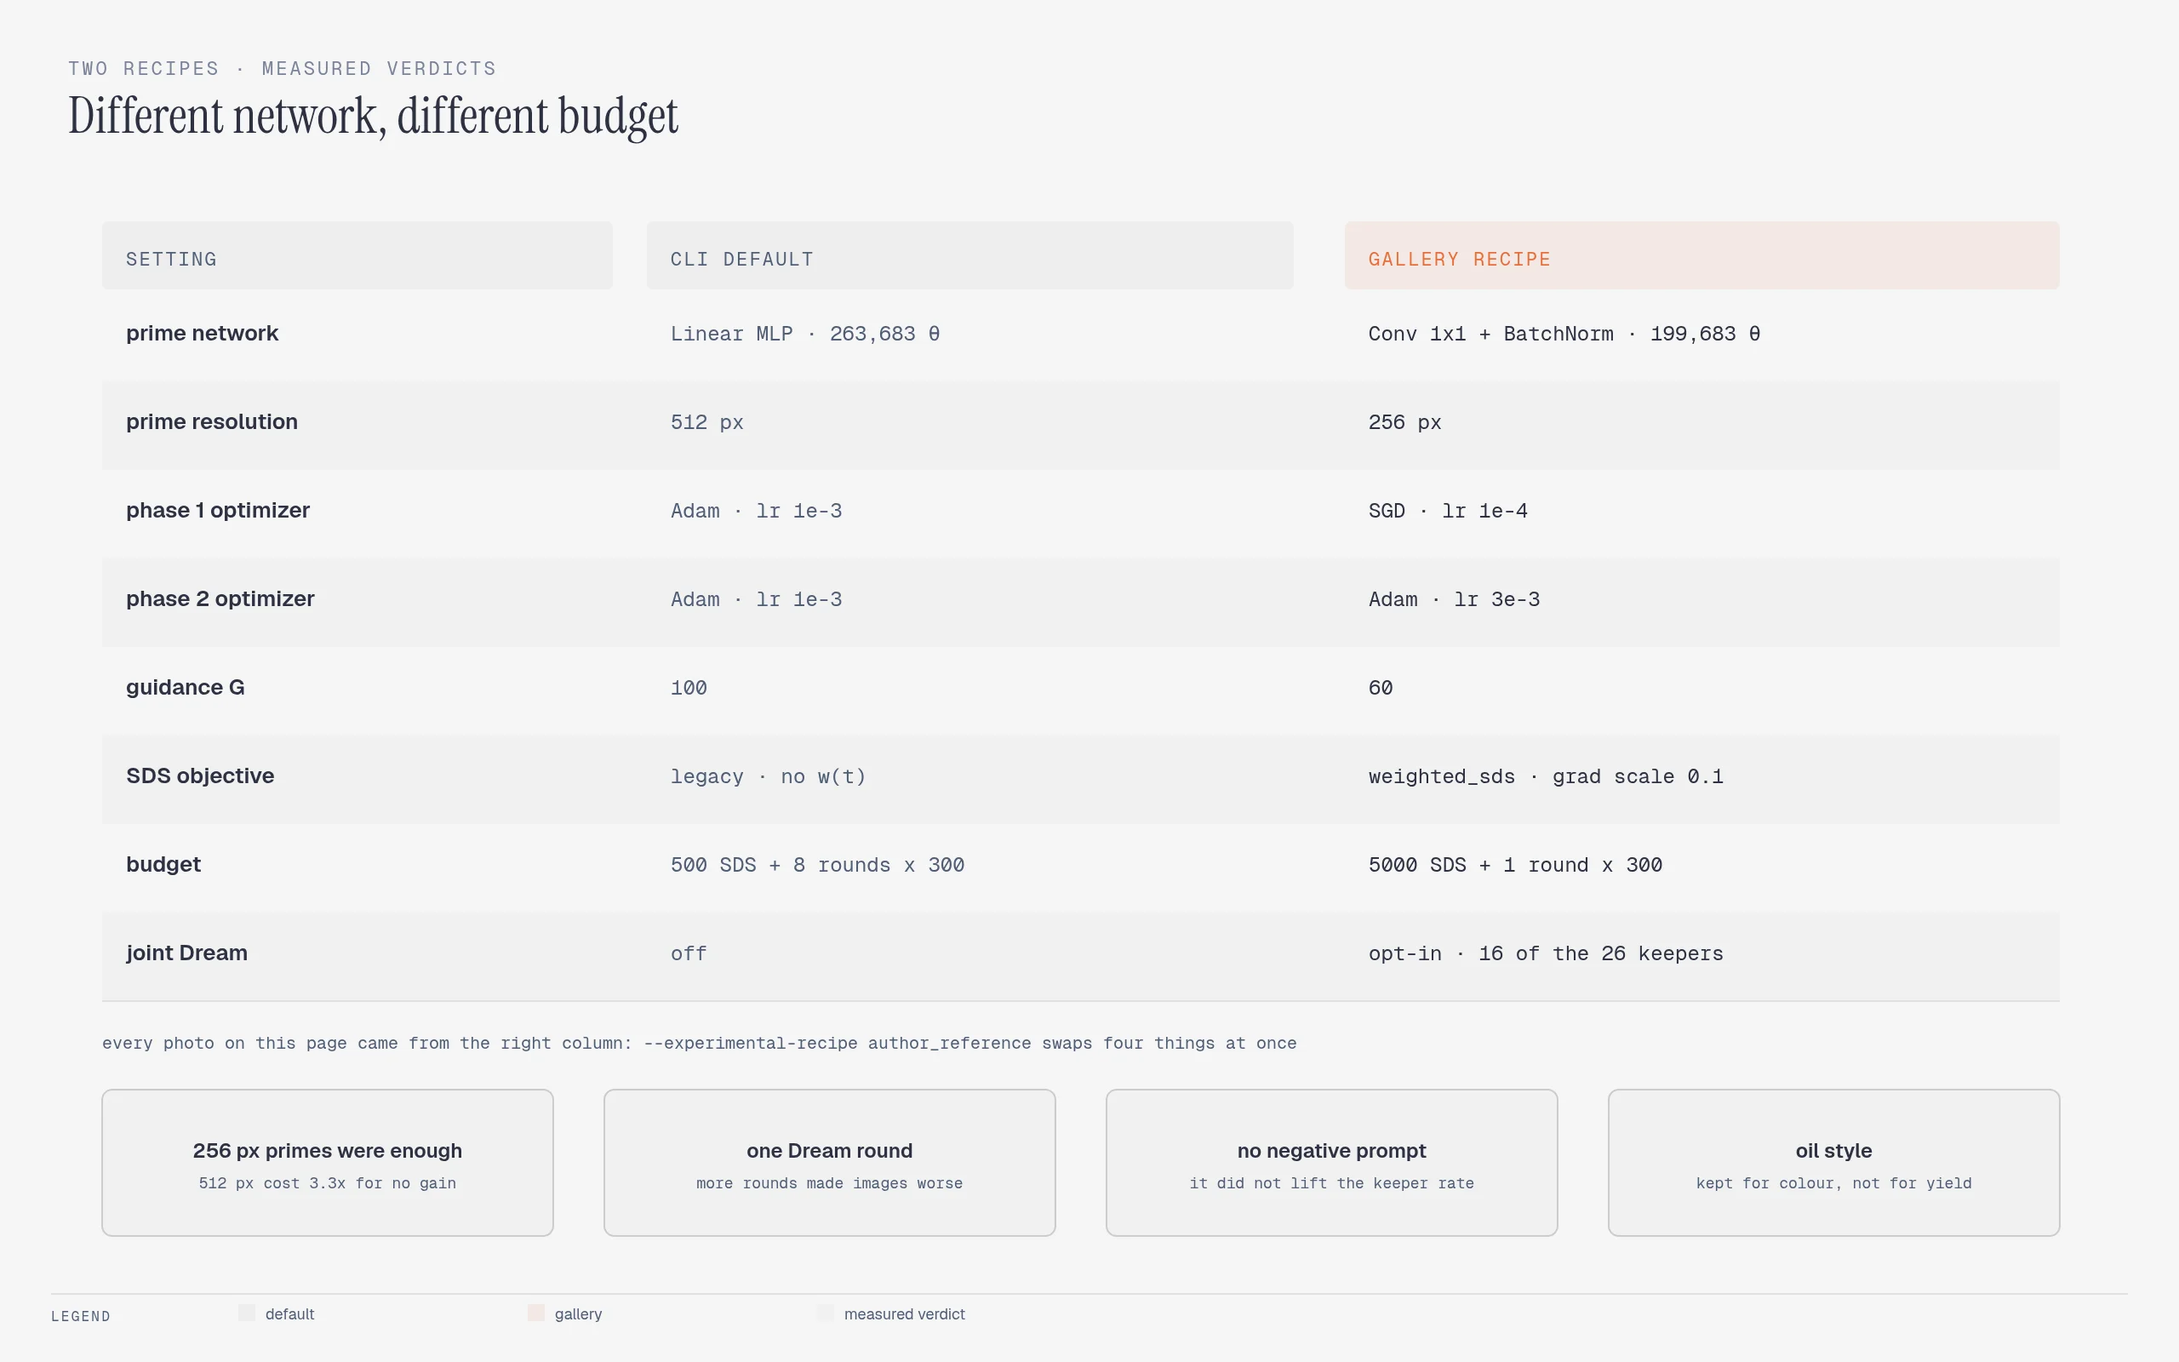
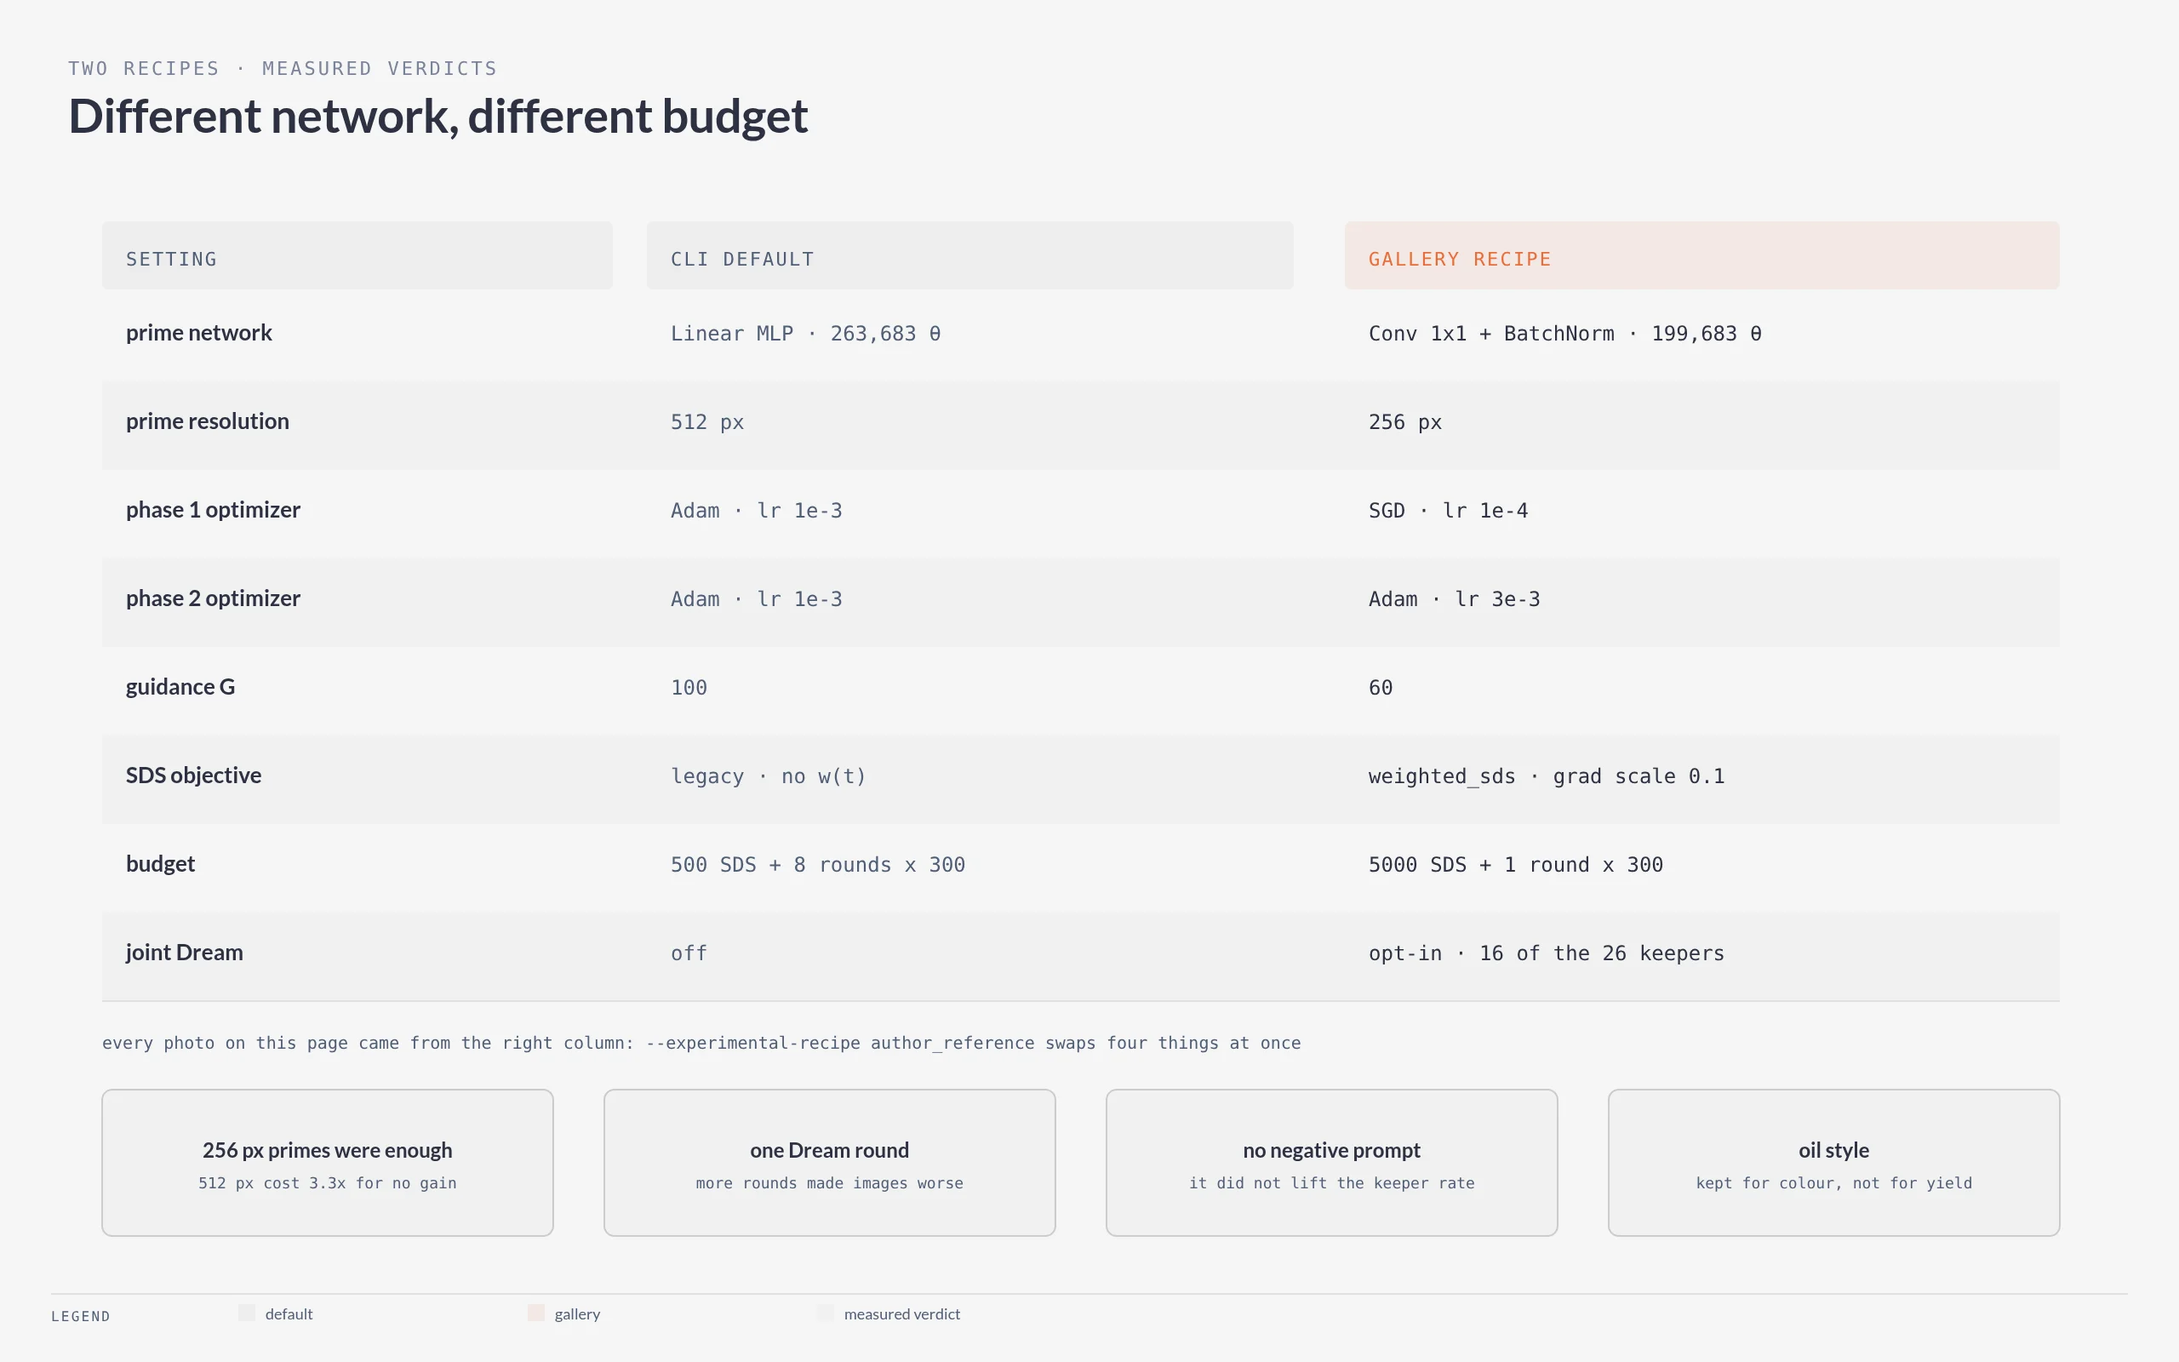
feat: Lato, a seed ablation, real failure cases, and the w(t) curve
Set the figure type in Lato. Headings and labels are one family now;
formulas and values stay monospace because they need the alignment.

Two new figures, both from measured cells:

- seeds: one pair at seeds 11, 23 and 37, baked twice. Joint Dream
  scored 5, 3 and 4. Independent targets scored 0, 0 and 3 on the same
  seeds with the same prompts, style and budget. The page claimed "a
  keeper is a specific pair, seed and mode" in prose; the grid shows it.
- failures: three real cut cells with both views and the recorded
  reason. One scored 2 on a confused turn, one scored 0 because only
  the turned view reads, one scored 5 and still lost on the frame flag.

The SDS figure gains a plot of w(t) = 1 - alpha bar(t) over SD 1.5's
scaled_linear schedule, with the 2 to 98 percent sampling window shaded.
Readers keep reading w as the guidance scale; the curve settles it, since
w runs 0.019 to 0.994 and G is 60.

Figure devices follow the literature: the ablation grid is the device
Visual Anagrams uses for permutation scale and Illusion3D uses for its
component study, the failure strip is Visual Anagrams Figure 9, and the
weighting plot is DreamTime Figure 6.

diff --git a/frontend/src/routes/illusions/+page.svelte b/frontend/src/routes/illusions/+page.svelte
@@ -62,7 +62,7 @@
 					src: '/illusions/sds.webp',
 					cap: 'ill.fig_sds_cap',
 					width: 2560,
-					height: 1560
+					height: 1600
 				}
 			]
 		},
@@ -114,6 +114,18 @@
 					cap: 'ill.fig_review_cap',
 					width: 2560,
 					height: 1560
+				},
+				{
+					src: '/illusions/seeds.webp',
+					cap: 'ill.fig_seeds_cap',
+					width: 2560,
+					height: 1440
+				},
+				{
+					src: '/illusions/failures.webp',
+					cap: 'ill.fig_failures_cap',
+					width: 2560,
+					height: 1312
 				}
 			]
 		},

diff --git a/frontend/src/lib/illusion-public-facts.test.ts b/frontend/src/lib/illusion-public-facts.test.ts
@@ -108,6 +108,8 @@ test('study diagrams are exported as webp', () => {
 		'joint',
 		'recipe',
 		'review',
+		'seeds',
+		'failures',
 		'print'
 	];
 	for (const name of names) {

diff --git a/scripts/render-illusion-figures.py b/scripts/render-illusion-figures.py
@@ -38,11 +38,10 @@ SMOKE_ARM = SMOKE / "arm_neg_on_indep"
 SWAN = LOCAL / "campaigns/window2/runs/window2/a_forked_reference_sketch/elephant_swan/seed_11/attempt_001"
 EAGLE = LOCAL / "campaigns/window2/runs/window2/a_forked_reference_sketch/eagle_phoenix/seed_11/attempt_001"
 
-FONTS = ("https://fonts.googleapis.com/css2?family=Instrument+Serif:ital@0;1"
-         "&family=Geist:wght@400;500;600&family=Geist+Mono:wght@400;500;600&display=swap")
-SANS = "'Geist','DejaVu Sans',sans-serif"
-MONO = "'Geist Mono','DejaVu Sans Mono',monospace"
-SERIF = "'Instrument Serif',Georgia,serif"
+FONTS = "https://fonts.googleapis.com/css2?family=Lato:wght@300;400;700;900&display=swap"
+SANS = "'Lato','DejaVu Sans',sans-serif"
+MONO = "'DejaVu Sans Mono',ui-monospace,monospace"
+DISPLAY = "'Lato','DejaVu Sans',sans-serif"
 
 PAPER, INK = "#f5f5f5", "#2d3142"
 MUTED, SOFT = "#4f5d75", "#7a8399"
@@ -104,8 +103,9 @@ def eyebrow(x, y, text):
             f'letter-spacing="0.14em">{text}</text>')
 
 
-def heading(x, y, text, size=30):
-    return f'<text x="{x}" y="{y}" fill="{INK}" font-size="{size}" font-family="{SERIF}">{text}</text>'
+def heading(x, y, text, size=28):
+    return (f'<text x="{x}" y="{y}" fill="{INK}" font-size="{size}" font-family="{DISPLAY}" '
+            f'font-weight="700" letter-spacing="-0.01em">{text}</text>')
 
 
 def box(x, y, w, h, name, sub=None, fill="#ffffff", stroke=INK, name_size=12, sub_size=9):
@@ -191,6 +191,48 @@ def write(out, slug, svg, w, h):
     print(f"{slug}: {w * 2}x{h * 2}")
 
 
+def alphas_cumprod(steps=1000, beta_start=0.00085, beta_end=0.012):
+    """SD 1.5's scaled_linear schedule, straight from its scheduler_config.json."""
+    lo, hi = beta_start ** 0.5, beta_end ** 0.5
+    out, running = [], 1.0
+    for i in range(steps):
+        beta = (lo + (hi - lo) * i / (steps - 1)) ** 2
+        running *= 1.0 - beta
+        out.append(running)
+    return out
+
+
+def weight_panel(x, y, pw, ph):
+    """w(t) = 1 - alpha_bar(t) over the schedule, with the sampled window shaded.
+
+    Readers keep reading w as the guidance scale. Drawing it settles the point:
+    w lives in [0, 1] and G is 60.
+    """
+    ac = alphas_cumprod()
+    weights = [1.0 - a for a in ac]
+    x0, x1 = x + 50, x + pw - 24
+    base, span = y + ph - 60, ph - 114
+    lo, hi = int(0.02 * len(weights)), int(0.98 * len(weights))
+    s = [box(x, y, pw, ph, "", None, fill="#ffffff"),
+         note(x + 30, y + 32, "TIMESTEP WEIGHT w(t) = 1 − ᾱt", 9, anchor="start", fill=SOFT),
+         f'<rect x="{x0 + (x1 - x0) * lo / len(weights):.1f}" y="{base - span}" '
+         f'width="{(x1 - x0) * (hi - lo) / len(weights):.1f}" height="{span}" '
+         f'fill="{ACCENT_TINT}"/>',
+         f'<line x1="{x0}" y1="{base}" x2="{x1}" y2="{base}" stroke="{RULE}" stroke-width="1"/>',
+         f'<line x1="{x0}" y1="{base - span}" x2="{x0}" y2="{base}" stroke="{RULE}" stroke-width="1"/>']
+    pts = " ".join(f"{x0 + (x1 - x0) * i / (len(weights) - 1):.1f},{base - v * span:.1f}"
+                   for i, v in enumerate(weights))
+    s.append(f'<polyline points="{pts}" fill="none" stroke="{INK}" stroke-width="1.6"/>')
+    s.append(note(x0 - 8, base - span + 4, "1.0", 9, anchor="end", fill=SOFT))
+    s.append(note(x0 - 8, base + 3, "0", 9, anchor="end", fill=SOFT))
+    s.append(note(x0, base + 18, "t = 0", 9, anchor="start", fill=SOFT))
+    s.append(note(x1, base + 18, "t = 1000", 9, anchor="end", fill=SOFT))
+    s.append(note(x0 + (x1 - x0) * 0.5, base - span - 6, "sampled window: 2% to 98%", 9, fill=ACCENT))
+    s.append(note(x + pw / 2, base + 36, "w runs 0.019 to 0.994 across that window.", 10))
+    s.append(note(x + pw / 2, base + 52, "G is 60. They are different numbers.", 10))
+    return "\n".join(s)
+
+
 # --------------------------------------------------------------- figures
 
 def fig_architecture(out):
@@ -212,7 +254,7 @@ def fig_architecture(out):
     s.append(path("M650,215 H672 Q680,215 680,223 V300 Q680,308 688,308 H710"))
     s.append(path("M650,475 H672 Q680,475 680,467 V330 Q680,322 688,322 H710"))
     s.append(path("M825,240 V112 Q825,104 817,104 H123 Q115,104 115,112 V116", ACCENT, "4,3"))
-    s.append(arrow_label(700, 112, "GRAD θ", 90))
+    s.append(note(700, 96, "GRAD θ", 9, fill=SOFT))
     s.append(box(40, 120, 150, 64, "θ · FFN weights", "only thing trained",
                  fill=ACCENT_TINT, stroke=ACCENT))
     s.append(photo(prime, 40, 260, 150, "p · print this"))
@@ -289,7 +331,7 @@ def fig_ffn(out):
 
 def fig_sds(out):
     view1 = photo_uri(STATIC / "elephant-swan-view.webp", 300)
-    w, h = 1280, 780
+    w, h = 1280, 800
     s = [svg_open("sds", "One Score Distillation step",
                   "The derived view encodes to a latent, gains noise, and the frozen UNet "
                   "scores it. The residual re-enters as a gradient on the prime weights only.",
@@ -310,13 +352,13 @@ def fig_sds(out):
     s.append(note(330, 330, "GRADIENT PATH: θ TO z", 9, fill=SOFT))
     s.append(f'<line x1="845" y1="180" x2="845" y2="250" stroke="{CUT}" stroke-width="1.6"/>')
     s.append(note(838, 140, "no grad past here", 9, anchor="end", fill=CUT))
-    s.append(box(40, 360, 580, 130, "how the gradient is made",
+    s.append(box(40, 350, 580, 130, "how the gradient is made",
                  "εcfg = εu + G·(εc − εu)\n"
                  "r = w(t)·(εcfg − ε)\n"
                  "w(t) = 1 − ᾱt, the timestep weight\n"
                  "L = (z · r.detach()).sum(), then the optimizer steps θ",
                  sub_size=11))
-    s.append(box(660, 360, 580, 130, "what the flags change",
+    s.append(box(660, 350, 580, 130, "what the flags change",
                  "default objective legacy drops w(t): r = εcfg − ε\n"
                  "the gallery ran weighted_sds · G = 60 · grad scale 0.1\n"
                  "the csd branch ignores guidance: r = w(t)·(εc − εu)\n"
@@ -336,17 +378,18 @@ def fig_sds(out):
         ("t", "integer step, 2% to 98% of T = 1000"),
         ("a(p)", "one fixed arrangement of the prime"),
     ]
-    s.append(note(40, 556, "SYMBOL KEY", 9, anchor="start", fill=SOFT))
+    s.append(note(540, 536, "SYMBOL KEY", 9, anchor="start", fill=SOFT))
     for i, (sym, meaning) in enumerate(keys):
-        col, row = divmod(i, 4)
-        x = 40 + col * 410
-        y = 586 + row * 28
-        s.append(f'<text x="{x}" y="{y}" fill="{INK}" font-size="12" font-family="{MONO}" '
+        col, row = divmod(i, 6)
+        x = 540 + col * 355
+        y = 566 + row * 26
+        s.append(f'<text x="{x}" y="{y}" fill="{INK}" font-size="11" font-family="{MONO}" '
                  f'font-weight="600">{sym}</text>')
-        s.append(f'<text x="{x + 70}" y="{y}" fill="{MUTED}" font-size="11" '
+        s.append(f'<text x="{x + 58}" y="{y}" fill="{MUTED}" font-size="11" '
                  f'font-family="{SANS}">{meaning}</text>')
+    s.append(weight_panel(40, 512, 460, 214))
     s.append(legend([(ACCENT_TINT, "trainable"), ("#ffffff", "frozen or fixed"),
-                     (NOTE_FILL, "note"), (CUT, "gradient stops")], w, 726))
+                     (NOTE_FILL, "note"), (CUT, "gradient stops")], w, 762))
     s.append("</svg>")
     write(out, "sds", "\n".join(s), w, h)
 
@@ -674,6 +717,97 @@ def fig_print(out):
     write(out, "print", "\n".join(s), w, h)
 
 
+OIL = LOCAL / "campaigns/window2/runs/window2/a_forked_oil/elephant_swan"
+SKETCH = LOCAL / "campaigns/window2/runs/window2/a_forked_reference_sketch/elephant_swan"
+SEED_SCORES = {("joint", 11): 5, ("joint", 23): 3, ("joint", 37): 4,
+               ("indep", 11): 0, ("indep", 23): 0, ("indep", 37): 3}
+
+
+def fig_seeds(out):
+    """Same pair, same prompts, same budget. Only the seed and the mode move."""
+    w, h = 1280, 720
+    s = [svg_open("seeds", "The seed decides as much as the recipe",
+                  "One pair at three seeds, baked twice: joint Dream and independent "
+                  "targets. Human scores run from zero to five with nothing else changed.",
+                  w, h)]
+    s.append(eyebrow(40, 44, "ABLATION · ONE PAIR, SIX CELLS"))
+    s.append(heading(40, 78, "A keeper is a seed, not a recipe"))
+    cols = [(11, 210), (23, 560), (37, 910)]
+    rows = [("joint Dream", "arm_neg_off_joint", 150), ("independent targets", "arm_neg_off_indep", 400)]
+    for seed, x in cols:
+        s.append(note(x + 155, 138, f"seed {seed}", 11, fill=INK))
+    for seed, x in cols:
+        s.append(note(x + 155, 158, "upright · turned", 9, fill=SOFT))
+    for label, arm, y in rows:
+        s.append(f'<rect x="40" y="{y + 30}" width="150" height="125" rx="6" fill="{NOTE_FILL}"/>')
+        s.append(note(115, y + 84, label.split()[0], 12, fill=INK))
+        s.append(note(115, y + 102, label.split()[1], 12, fill=INK))
+        for seed, x in cols:
+            base = OIL / f"seed_{seed}" / "attempt_001" / arm / "ckpt_final"
+            s.append(f'<image href="{photo_uri(base / "derived_1.png", 260)}" x="{x}" '
+                     f'y="{y + 20}" width="145" height="145"/>')
+            s.append(f'<image href="{photo_uri(base / "derived_2.png", 260)}" x="{x + 165}" '
+                     f'y="{y + 20}" width="145" height="145"/>')
+            score = SEED_SCORES[(arm.split("_")[-1], seed)]
+            keeper = score >= 4
+            s.append(f'<rect x="{x + 110}" y="{y + 178}" width="100" height="22" rx="11" '
+                     f'fill="{ACCENT_TINT if keeper else NOTE_FILL}" '
+                     f'stroke="{ACCENT if keeper else NOTE_STROKE}" stroke-width="1"/>')
+            s.append(f'<text x="{x + 160}" y="{y + 193}" fill="{ACCENT if keeper else MUTED}" '
+                     f'font-size="11" font-family="{MONO}" text-anchor="middle">score {score}</text>')
+    s.append(box(40, 616, 1200, 52,
+                 "elephant and swan · oil · no negative prompt · 5000 SDS steps + 1 Dream round · "
+                 "only the seed and the Dream mode change",
+                 None, fill=NOTE_FILL, stroke=NOTE_STROKE, name_size=11))
+    s.append(legend([(ACCENT_TINT, "would be a keeper"), (NOTE_FILL, "cut")], w, 700))
+    s.append("</svg>")
+    write(out, "seeds", "\n".join(s), w, h)
+
+
+FAILURES = [
+    (OIL / "seed_37/attempt_001/arm_neg_on_joint/ckpt_final", "score 2 · the turn is confused",
+     "Upright is a clean elephant.", "Turned, swan and elephant overlap.", "seed 37 · joint · oil"),
+    (OIL / "seed_23/attempt_001/arm_neg_off_indep/ckpt_final", "score 0 · only the turn reads",
+     "Upright resolves into nothing.", "Turned, the swan is clean.", "seed 23 · independent · oil"),
+    (SKETCH / "seed_11/attempt_001/arm_neg_off_indep/ckpt_final", "score 5 · cut on the frame flag",
+     "Both subjects read here.", "Pencils and a desk are painted in.", "seed 11 · independent · sketch"),
+]
+
+
+def fig_failures(out):
+    """Three real cut cells, each with what the reviewer saw."""
+    w, h = 1280, 656
+    s = [svg_open("failures", "What the human gate catches",
+                  "Three real cells that did not become keepers, each with both views and "
+                  "the reason it was cut.", w, h)]
+    s.append(eyebrow(40, 44, "FAILURE CASES · REAL CUT CELLS"))
+    s.append(heading(40, 78, "What gets cut, and why"))
+    for i, (base, verdict, line1, line2, prov) in enumerate(FAILURES):
+        x = 40 + i * 410
+        s.append(f'<image href="{photo_uri(base / "derived_1.png", 300)}" x="{x}" y="{170}" '
+                 f'width="170" height="170"/>')
+        s.append(f'<image href="{photo_uri(base / "derived_2.png", 300)}" x="{x + 185}" y="{170}" '
+                 f'width="170" height="170"/>')
+        s.append(caption(x + 85, 360, "upright"))
+        s.append(caption(x + 270, 360, "turned"))
+        s.append(f'<rect x="{x}" y="{388}" width="355" height="26" rx="4" fill="{NOTE_FILL}"/>')
+        s.append(f'<text x="{x + 12}" y="{406}" fill="{INK}" font-size="12" font-weight="600" '
+                 f'font-family="{SANS}">{verdict}</text>')
+        s.append(f'<text x="{x}" y="{440}" fill="{MUTED}" font-size="11" '
+                 f'font-family="{SANS}">{line1}</text>')
+        s.append(f'<text x="{x}" y="{460}" fill="{MUTED}" font-size="11" '
+                 f'font-family="{SANS}">{line2}</text>')
+        s.append(f'<text x="{x}" y="{484}" fill="{SOFT}" font-size="9" '
+                 f'font-family="{MONO}">{prov}</text>')
+    s.append(box(40, 526, 1200, 92, "the score and the frame flag are two separate judgements",
+                 "The score asks whether both subjects read. The frame flag asks whether the "
+                 "image pretends to be\na photo of a drawing. A cell needs 4 or 5 on the score "
+                 "and no disqualifying frame. The third cell\nscored 5 and was still cut.",
+                 fill=NOTE_FILL, stroke=NOTE_STROKE, sub_size=11))
+    s.append("</svg>")
+    write(out, "failures", "\n".join(s), w, h)
+
+
 FIGURES = {
     "architecture": fig_architecture,
     "ffn": fig_ffn,
@@ -684,6 +818,8 @@ FIGURES = {
     "workflow": fig_workflow,
     "recipe": fig_recipe,
     "review": fig_review,
+    "seeds": fig_seeds,
+    "failures": fig_failures,
     "print": fig_print,
 }
 

diff --git a/docs/illusions-study.md b/docs/illusions-study.md
@@ -262,6 +262,22 @@ can flip each card. A human promotes what reads clean.
 *Figure: the review funnel: 206 baked cells, 43 at score 4 or 5, 16 of those cut on a frame defect, 26 keepers. The photo pair is one cut cell beside one kept cell, same pair and seed. The CLIP branch is recorded, never gating.*
 
 
+The seed matters as much as the recipe. One pair, one style, one budget,
+three seeds, baked twice: joint Dream scored 5, 3 and 4, and independent
+targets scored 0, 0 and 3 on the same three seeds. Two of those six cells
+would clear the gallery bar. Four would not.
+
+<!-- figure: seeds -->
+*Figure: elephant and swan at seeds 11, 23 and 37, in joint and independent modes. Same prompts, same style, same budget. Only the seed and the Dream mode change.*
+
+
+A score of 4 or 5 is not the only way through, and a high score is not a
+pass on its own.
+
+<!-- figure: failures -->
+*Figure: three real cut cells with both views. One scored 2 because the turned view is confused. One scored 0 because only the turned view reads. One scored 5 and still lost, because a desk and pencils are painted into the image.*
+
+
 ## Print
 
 <!-- figure: print -->
